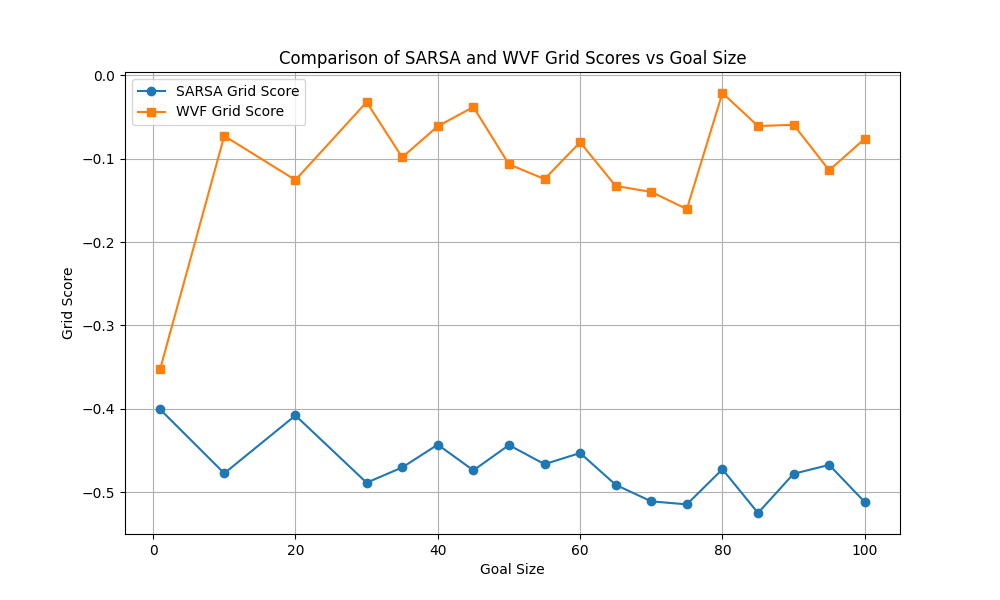
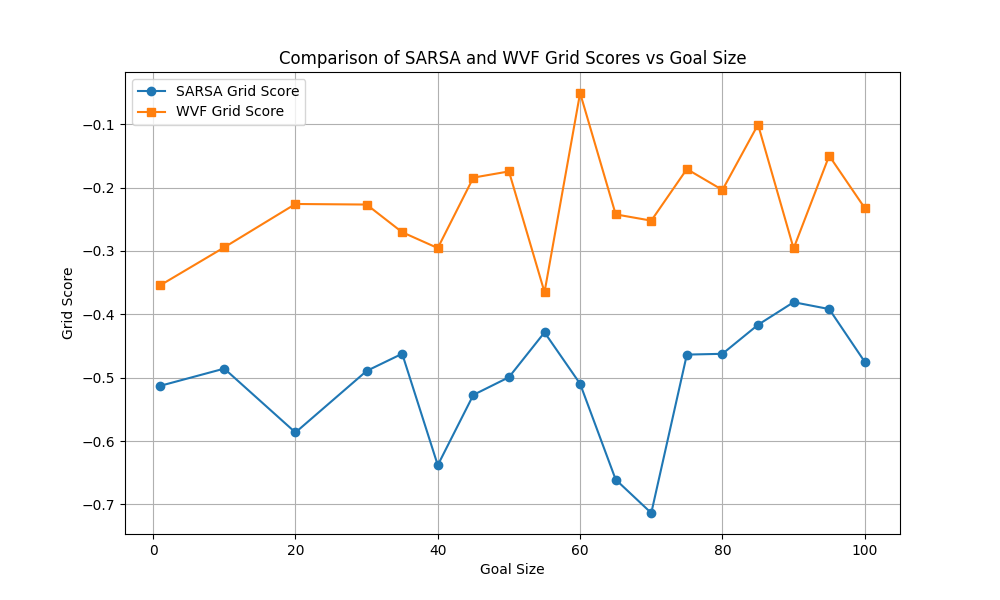
try

diff --git a/SRWVF.py b/SRWVF.py
@@ -11,6 +11,7 @@ import random
 import pandas as pd
 # Calculating the grid score
 from metrics import GridScorer
+from scipy.ndimage import gaussian_filter
 
 # ------------------ Recording Functions --------------------------------
 def record_agent_trajectories(env, agent, episodes, episode_length, epsilon, filename):
@@ -351,16 +352,25 @@ def get_goal_sequence(total_episodes, goal_size):
     
     return goal_sequence
 
-def calculate_rate_map(experiences, env):
+
+def calculate_rate_map(experiences, env, sigma=0.5):
     occupancy_grid = np.zeros([env.grid_size, env.grid_size])
     
     for experience in experiences:
-        position = env.state_to_point(experience[0])  # Ensure this maps correctly
+        position = env.state_to_point(experience[0])
         occupancy_grid[tuple(position)] += 1
     
-    total_steps = np.sum(occupancy_grid) + 1e-10  # Total number of time steps
-    rate_map = occupancy_grid / total_steps  # Normalize occupancy grid
-    return utils.mask_grid(rate_map, env.blocks)  # Apply masking if necessary
+    total_steps = np.sum(occupancy_grid) + 1e-10
+    rate_map = occupancy_grid / total_steps
+    
+    # Apply Gaussian smoothing
+    smoothed_rate_map = gaussian_filter(rate_map, sigma=sigma)
+    
+    # Mask blocked areas and unvisited locations
+    masked_rate_map = utils.mask_grid(smoothed_rate_map, env.blocks)
+    masked_rate_map[occupancy_grid == 0] = np.nan
+    
+    return masked_rate_map # Apply masking if necessary
 
 
 
@@ -368,7 +378,7 @@ def calculate_rate_map(experiences, env):
 # --------------------Epsilon greedy Training Loop --------------------
 # This loop trains the agent using a decaying epsilon greedy policy and trains it on goal slices in the arena.
 
-def run_wvf(train_episode_length,test_episode_length,episodes,gamma,lr,initial_train_epsilon,epsilon_decay,test_epsilon,goal_size):
+def run_wvf(train_episode_length,test_episode_length,episodes,gamma,lr,initial_train_epsilon,epsilon_decay,test_epsilon,goal_size,test_episodes):
 
     # Reinitialize the agent to ensure an independent learning process for the second loop
     epsilon_greedy_agent = TabularSuccessorAgent(env.state_size, env.action_size, lr, gamma, goal_size)
@@ -429,37 +439,37 @@ def run_wvf(train_episode_length,test_episode_length,episodes,gamma,lr,initial_t
         # Decay epsilon after each episode
         epsilon *= epsilon_decay
         epsilon = max(epsilon, 0.05)  # minimum epsilon value
-
-    WVF_rate_map = calculate_rate_map(experiences, env)
-
-        # Test phase
-        # agent_start = random_valid_position(env)  
-        # env.reset(agent_pos=agent_start, goal_pos=goal_pos)
-        # state = env.observation
-        # for j in range(test_episode_length):
-        #     action = epsilon_greedy_agent.sample_action(state, epsilon=test_epsilon)
-        #     reward = env.step(action)
-        #     state_next = env.observation
-        #     test_experiences.append([state, action, state_next, reward])
-        #     state = state_next
-        #     if env.done:
-        #         break
-        # test_lengths.append(j)
-
-    #     # Print progress every 50 episodes
-    #     if (episode + 1) % 50 == 0:
-    #         print(f"WVF training: Completed episode {episode + 1}")
-
-    # print("\nWVF training completed.")
     
+    # Testing phase
+    for episode in range(test_episodes):
+        agent_start = random_valid_position(env)
+        goal_pos = random_valid_position(env)  # Or choose a specific test goal strategy
+        env.reset(agent_pos=agent_start, goal_pos=goal_pos)
+        state = env.observation
+        
+        for step in range(test_episode_length):
+            action = epsilon_greedy_agent.sample_action(state, epsilon=test_epsilon)
+            reward = env.step(action)
+            next_state = env.observation
+            test_experiences.append([state, action, next_state, reward])
+            state = next_state
+            if env.done:
+                break
 
-    nbins = grid_size 
-    WVF_rate_map = calculate_rate_map(experiences, env) 
-    grid_scorer = GridScorer(nbins)
-
-    # Get the grid score from the rate map
-    _, stGrd = grid_scorer.get_scores(WVF_rate_map)
+    # Calculate grid score based on test experiences
+    test_rate_map = calculate_rate_map(test_experiences, env)
+    grid_scorer = GridScorer(grid_size)
+    _, stGrd = grid_scorer.get_scores(test_rate_map)
     grid_score = stGrd['gridscore']
+
+    return float(grid_score)
+    # nbins = grid_size 
+    # WVF_rate_map = calculate_rate_map(experiences, env) 
+    # grid_scorer = GridScorer(nbins)
+
+    # # Get the grid score from the rate map
+    # _, stGrd = grid_scorer.get_scores(WVF_rate_map)
+    # grid_score = stGrd['gridscore']
 
 
     #------
@@ -490,10 +500,10 @@ def run_wvf(train_episode_length,test_episode_length,episodes,gamma,lr,initial_t
     # plot_value_functions(epsilon_greedy_agent, env, "WVF Value Functions")
     # plot_raw_sr(epsilon_greedy_agent.M, env, "WVF SR Matrix")
 
-    return float(grid_score)
+    # return float(grid_score)
 
 # The Main experiment that compares the grid score from traditional SARSA against the new WVF Method
-def experiment_sarsa_wvf(train_episode_length,test_episode_length,episodes,gamma,lr,initial_train_epsilon,epsilon_decay,test_epsilon, num_runs):
+def experiment_sarsa_wvf(train_episode_length,test_episode_length,episodes,gamma,lr,initial_train_epsilon,epsilon_decay,test_epsilon, num_runs,test_episodes):
     
     # number of exepriments = goal slices size
     # The list that containt the number of goal sizes
@@ -502,13 +512,6 @@ def experiment_sarsa_wvf(train_episode_length,test_episode_length,episodes,gamma
     # Initialize empty lists to store results
     results = []
 
-    # # Run SARSA experiments
-    # for run in range(num_runs):
-    #     sarsa_grid_scores = run_sarsa(train_episode_length,test_episode_length,episodes,gamma,lr,initial_train_epsilon,epsilon_decay,test_epsilon, goal_size=goal_sizes[0])
-    #     sarsa_results.append(sarsa_grid_scores)
-    # run SARSA with decreasing goal sizes (no effect)
-
-
     # run SARSA and WVF with decreasing goal sizes and store results together
     for goal_size in goal_sizes:
         print("\nWVF Experiment for goal size:", goal_size)
@@ -516,10 +519,10 @@ def experiment_sarsa_wvf(train_episode_length,test_episode_length,episodes,gamma
 
         # Run the SARSA experiment num_runs times
         for _ in range(num_runs):
-            wvf_grid_score = run_wvf(train_episode_length, test_episode_length, episodes, gamma, lr, initial_train_epsilon, epsilon_decay, test_epsilon, goal_size)
+            wvf_grid_score = run_wvf(train_episode_length, test_episode_length, episodes, gamma, lr, initial_train_epsilon, epsilon_decay, test_epsilon, goal_size,test_episodes)
              # Check if the score is NaN, and set it to 0 if it is
             if math.isnan(wvf_grid_score):
-                wvf_grid_score = 0.0
+                wvf_grid_score = -2.0
 
             total_score += wvf_grid_score  # Accumulate the score
            
@@ -556,21 +559,22 @@ env.reset(agent_pos=[0, 0], goal_pos=[0, grid_size - 1])
 num_runs = 20
 
 # number of steps agent takes in envirnoment
-train_episode_length = 200
+train_episode_length = 400
 test_episode_length = 200
 
 # number of episodes per experiment
-episodes = 4000
+episodes = 15000
+test_episodes = 500
 
 # parameters for agent
 # gamma = 0.8
 gamma = 0.9
-lr = 1
+lr = 0.1
 # lr = 0.1 grid cells
 # lr = 1 gerauds
 # initial_train_epsilon = 0.6
 initial_train_epsilon = 1
-epsilon_decay = 0.995
+epsilon_decay = 0.9995
 test_epsilon = 0.01
 
-experiment_sarsa_wvf(train_episode_length,test_episode_length,episodes,gamma,lr,initial_train_epsilon,epsilon_decay,test_epsilon,num_runs)
+experiment_sarsa_wvf(train_episode_length,test_episode_length,episodes,gamma,lr,initial_train_epsilon,epsilon_decay,test_epsilon,num_runs,test_episodes)

diff --git a/SRSARSA.py b/SRSARSA.py
@@ -10,6 +10,7 @@ import random
 import pandas as pd
 # Calculating the grid score
 from metrics import GridScorer
+from scipy.ndimage import gaussian_filter
 
 # ------------------ Recording Functions --------------------------------
 def record_agent_trajectories(env, agent, episodes, episode_length, epsilon, filename):
@@ -340,20 +341,30 @@ def get_goal_sequence(total_episodes, goal_size):
     
     return goal_sequence
 
-def calculate_rate_map(experiences, env):
+
+
+def calculate_rate_map(experiences, env, sigma=0.5):
     occupancy_grid = np.zeros([env.grid_size, env.grid_size])
     
     for experience in experiences:
-        position = env.state_to_point(experience[0])  # Ensure this maps correctly
+        position = env.state_to_point(experience[0])
         occupancy_grid[tuple(position)] += 1
     
-    total_steps = np.sum(occupancy_grid) + 1e-10  # Total number of time steps
-    rate_map = occupancy_grid / total_steps  # Normalize occupancy grid
-    return utils.mask_grid(rate_map, env.blocks)  # Apply masking if necessary
+    total_steps = np.sum(occupancy_grid) + 1e-10
+    rate_map = occupancy_grid / total_steps
+    
+    # Apply Gaussian smoothing
+    smoothed_rate_map = gaussian_filter(rate_map, sigma=sigma)
+    
+    # Mask blocked areas and unvisited locations
+    masked_rate_map = utils.mask_grid(smoothed_rate_map, env.blocks)
+    masked_rate_map[occupancy_grid == 0] = np.nan
+    
+    return masked_rate_map # Apply masking if necessary
 
 
 
-def run_sarsa(train_episode_length,test_episode_length,episodes,gamma,lr,initial_train_epsilon,epsilon_decay,test_epsilon,goal_size):
+def run_sarsa(train_episode_length,test_episode_length,episodes,gamma,lr,initial_train_epsilon,epsilon_decay,test_epsilon,goal_size,test_episodes):
 
     # ---------------------------Intermediate Setup --------------------------------
     # Initialize the SARSA agent
@@ -368,7 +379,7 @@ def run_sarsa(train_episode_length,test_episode_length,episodes,gamma,lr,initial
     SARSA_lifetime_td_errors = []
 
     # For Grid score
-    SARSA_rate_map = np.zeros([env.grid_size, env.grid_size])
+    # SARSA_rate_map = np.zeros([env.grid_size, env.grid_size])
 
     # Shuffle the order of goals with targets
     np.random.shuffle(goals_with_targets)
@@ -405,27 +416,37 @@ def run_sarsa(train_episode_length,test_episode_length,episodes,gamma,lr,initial
 
         SARSA_lifetime_td_errors.append(np.mean(episodic_error))
 
-        # Test phase
-        # env.reset(agent_pos=agent_start, goal_pos=goal_pos)
-        # state = env.observation
-        # for j in range(test_episode_length):
-        #     action = SARSAagent.sample_action(state, epsilon=test_epsilon)
-        #     reward = env.step(action)
-        #     state_next = env.observation
-        #     SARSA_test_experiences.append([state, action, state_next, reward])
-        #     state = state_next
-        #     if env.done:
-        #         break
-        # SARSA_test_lengths.append(j)
-        # End of episode
+    # Testing phase
+    for episode in range(test_episodes):
+        agent_start = random_valid_position(env)
+        goal_pos = random_valid_position(env)  # Or choose a specific test goal strategy
+        env.reset(agent_pos=agent_start, goal_pos=goal_pos)
+        state = env.observation
+        
+        for step in range(test_episode_length):
+            action = SARSAagent.sample_action(state, epsilon=test_epsilon)
+            reward = env.step(action)
+            next_state = env.observation
+            SARSA_test_experiences.append([state, action, next_state, reward])
+            state = next_state
+            if env.done:
+                break
 
-    nbins = grid_size 
-    SARSA_rate_map = calculate_rate_map(SARSA_experiences, env) 
-    grid_scorer = GridScorer(nbins)
-
-    # Get the grid score from the rate map
-    _, stGrd = grid_scorer.get_scores(SARSA_rate_map)
+    # Calculate grid score based on test experiences
+    test_rate_map = calculate_rate_map(SARSA_test_experiences, env)
+    grid_scorer = GridScorer(grid_size)
+    _, stGrd = grid_scorer.get_scores(test_rate_map)
     grid_score = stGrd['gridscore']
+
+    return float(grid_score)
+
+    # nbins = grid_size 
+    # SARSA_rate_map = calculate_rate_map(SARSA_experiences, env) 
+    # grid_scorer = GridScorer(nbins)
+
+    # # Get the grid score from the rate map
+    # _, stGrd = grid_scorer.get_scores(SARSA_rate_map)
+    # grid_score = stGrd['gridscore']
 
     # ---- current way to get grid score
      # value for number of bins
@@ -454,12 +475,12 @@ def run_sarsa(train_episode_length,test_episode_length,episodes,gamma,lr,initial
     # # plot_value_functions(SARSAagent, env, "SARSA Value Functions")
     # # plot_raw_sr(SARSAagent.M, env, "SARSA SR Matrix")
 
-    return float(grid_score)
+    # return float(grid_score)
 
 
 
 # The Main experiment that compares the grid score from traditional SARSA against the new WVF Method
-def experiment_sarsa(train_episode_length,test_episode_length,episodes,gamma,lr,initial_train_epsilon,epsilon_decay,test_epsilon, num_runs):
+def experiment_sarsa(train_episode_length,test_episode_length,episodes,gamma,lr,initial_train_epsilon,epsilon_decay,test_epsilon, num_runs,test_episodes):
     
     # number of exepriments = goal slices size
     # The list that containt the number of goal sizes
@@ -468,7 +489,6 @@ def experiment_sarsa(train_episode_length,test_episode_length,episodes,gamma,lr,
     # Initialize empty lists to store results
     results = []
 
-    # run SARSA and WVF with decreasing goal sizes and store results together
     # Run SARSA for each goal size and average over multiple runs
     for goal_size in goal_sizes:
         print("\nSARSA Experiment for goal size:", goal_size)
@@ -477,10 +497,10 @@ def experiment_sarsa(train_episode_length,test_episode_length,episodes,gamma,lr,
 
         # Run the SARSA experiment num_runs times
         for _ in range(num_runs):
-            sarsa_grid_score = run_sarsa(train_episode_length, test_episode_length, episodes, gamma, lr, initial_train_epsilon, epsilon_decay, test_epsilon, goal_size)
+            sarsa_grid_score = run_sarsa(train_episode_length, test_episode_length, episodes, gamma, lr, initial_train_epsilon, epsilon_decay, test_epsilon, goal_size,test_episodes)
             # Check if the score is NaN, and set it to 0 if it is
             if math.isnan(sarsa_grid_score):
-                sarsa_grid_score = 0.0
+                sarsa_grid_score = -2.0
 
             total_score += sarsa_grid_score  # Accumulate the score
             
@@ -514,26 +534,27 @@ env.reset(agent_pos=[0, 0], goal_pos=[0, grid_size - 1])
 
 # --------------------Training and Testing Parameters for Q-learning agents and SARSA agents --------------------------------
 # parameters for training
-
 num_runs = 20
+
 # number of steps agent takes in envirnoment
-train_episode_length = 200
+train_episode_length = 400
 test_episode_length = 200
 
 # number of episodes per experiment
-episodes = 4000
+episodes = 15000
+test_episodes = 500
 
 # parameters for agent
 # gamma = 0.8
 gamma = 0.9
-lr = 1
+lr = 0.1
 # lr = 0.1 grid cells
 # lr = 1 gerauds
 # initial_train_epsilon = 0.6
 initial_train_epsilon = 1
-epsilon_decay = 0.995 #not used in SARSA
+epsilon_decay = 0.9995
 test_epsilon = 0.01
 
-experiment_sarsa(train_episode_length,test_episode_length,episodes,gamma,lr,initial_train_epsilon,epsilon_decay,test_epsilon,num_runs)
+experiment_sarsa(train_episode_length,test_episode_length,episodes,gamma,lr,initial_train_epsilon,epsilon_decay,test_epsilon,num_runs,test_episodes)
 
 
